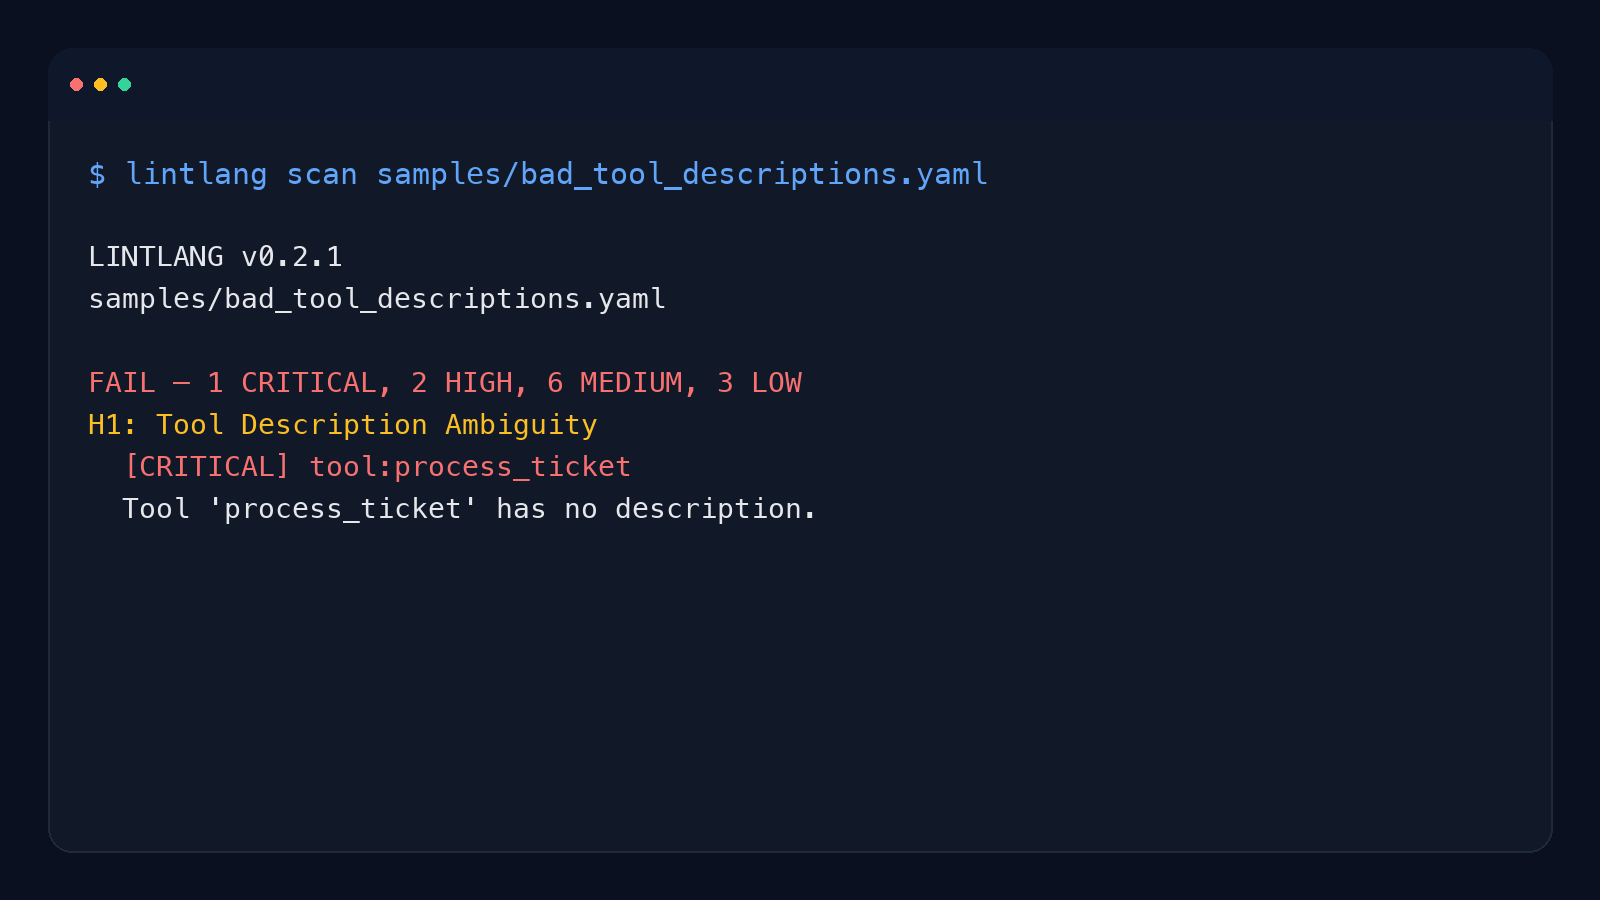
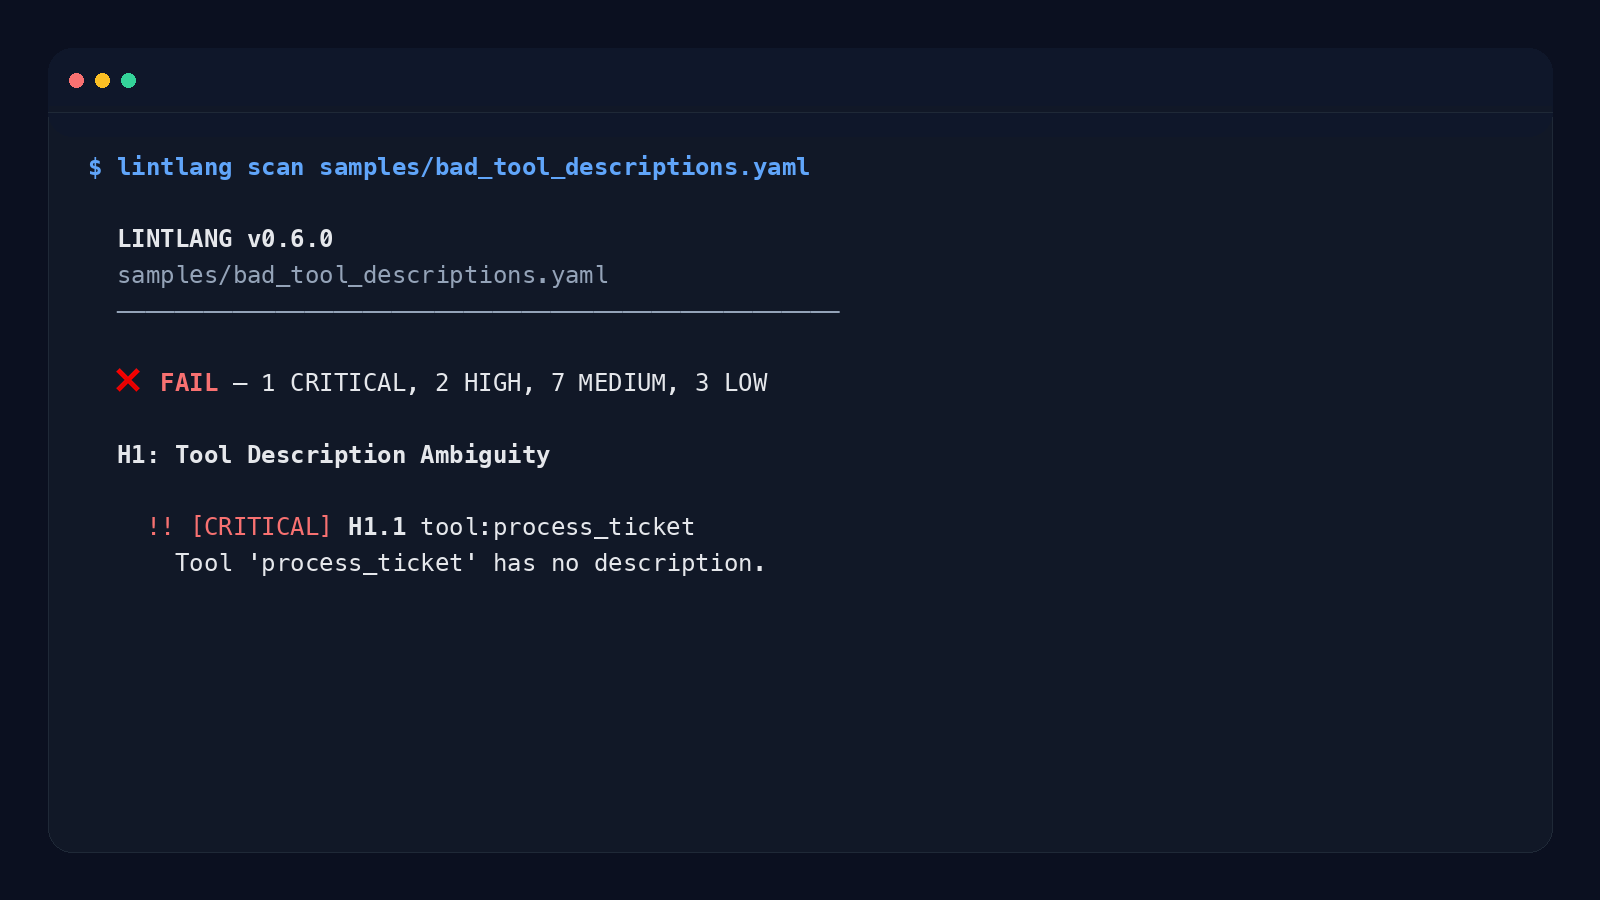
docs: center the README header on the lintlang.ai branding (#112)
Give the repo the centered product header that polished OSS surfaces use:
logo, name, tagline, badges, and navigation, all centered above the body.

- Add assets/lintlang-mark.svg, the mark served at lintlang.ai.
- Restore the CI, PyPI, downloads, Python, and License badges dropped by
  the documentation refresh in #111, and add OpenSSF Scorecard and DOI.
- Regenerate assets/preview.png from live lintlang 0.6.0 output. The
  committed banner still showed v0.2.1 output and the README did not
  reference it; assets/preview-source.txt now matches the new render.

diff --git a/README.md b/README.md
@@ -1,12 +1,28 @@
+<div align="center">
+
+<img src="assets/lintlang-mark.svg" alt="LintLang" width="88" height="88">
+
 # LintLang
 
-Static analysis for the instructions your AI agents execute.
+**Static analysis for the instructions your AI agents execute.**
+
+[![CI](https://github.com/hermes-labs-ai/lintlang/actions/workflows/ci.yml/badge.svg)](https://github.com/hermes-labs-ai/lintlang/actions/workflows/ci.yml)
+[![PyPI](https://img.shields.io/pypi/v/lintlang)](https://pypi.org/project/lintlang/)
+[![Downloads](https://img.shields.io/pypi/dm/lintlang?label=downloads%2Fmonth)](https://pypistats.org/packages/lintlang)
+[![Python](https://img.shields.io/pypi/pyversions/lintlang)](https://pypi.org/project/lintlang/)
+[![License](https://img.shields.io/pypi/l/lintlang)](LICENSE)
+[![OpenSSF Scorecard](https://api.securityscorecards.dev/projects/github.com/hermes-labs-ai/lintlang/badge)](https://scorecard.dev/viewer/?uri=github.com/hermes-labs-ai/lintlang)
+[![DOI](https://zenodo.org/badge/DOI/10.5281/zenodo.20471007.svg)](https://doi.org/10.5281/zenodo.20471007)
+
+[Product page](https://hermes-labs.ai/lintlang) · [Browser playground](https://hermes-labs.ai/lintlang#playground) · [PyPI](https://pypi.org/project/lintlang/) · [Documentation](llms-full.txt)
+
+<img src="assets/preview.png" alt="lintlang scan reporting a CRITICAL tool-description finding" width="760">
+
+</div>
 
 LintLang catches ambiguous tool descriptions, missing operational limits, schema/description mismatches, conflicting output contracts, and other bounded instruction defects before a model runs.
 
 **Local · deterministic · zero LLM calls · no telemetry or network access during a scan**
-
-[Product page](https://hermes-labs.ai/lintlang) · [Browser playground](https://hermes-labs.ai/lintlang#playground) · [PyPI](https://pypi.org/project/lintlang/) · [Documentation](llms-full.txt)
 
 ## Quick start
 

diff --git a/assets/preview-spec.md b/assets/preview-spec.md
@@ -1,7 +1,7 @@
 # Preview Spec
 
-> Archived public-release preview for `0.2.1`. It is retained as historical
-> source material and is not referenced by the unreleased candidate README.
+> Regenerated 2026-09-18 from live `lintlang 0.6.0` output and referenced by the
+> README header. Regenerate it whenever the shown command's output changes.
 
 - Dimensions: `1600x900`
 - Format: static terminal-style PNG
